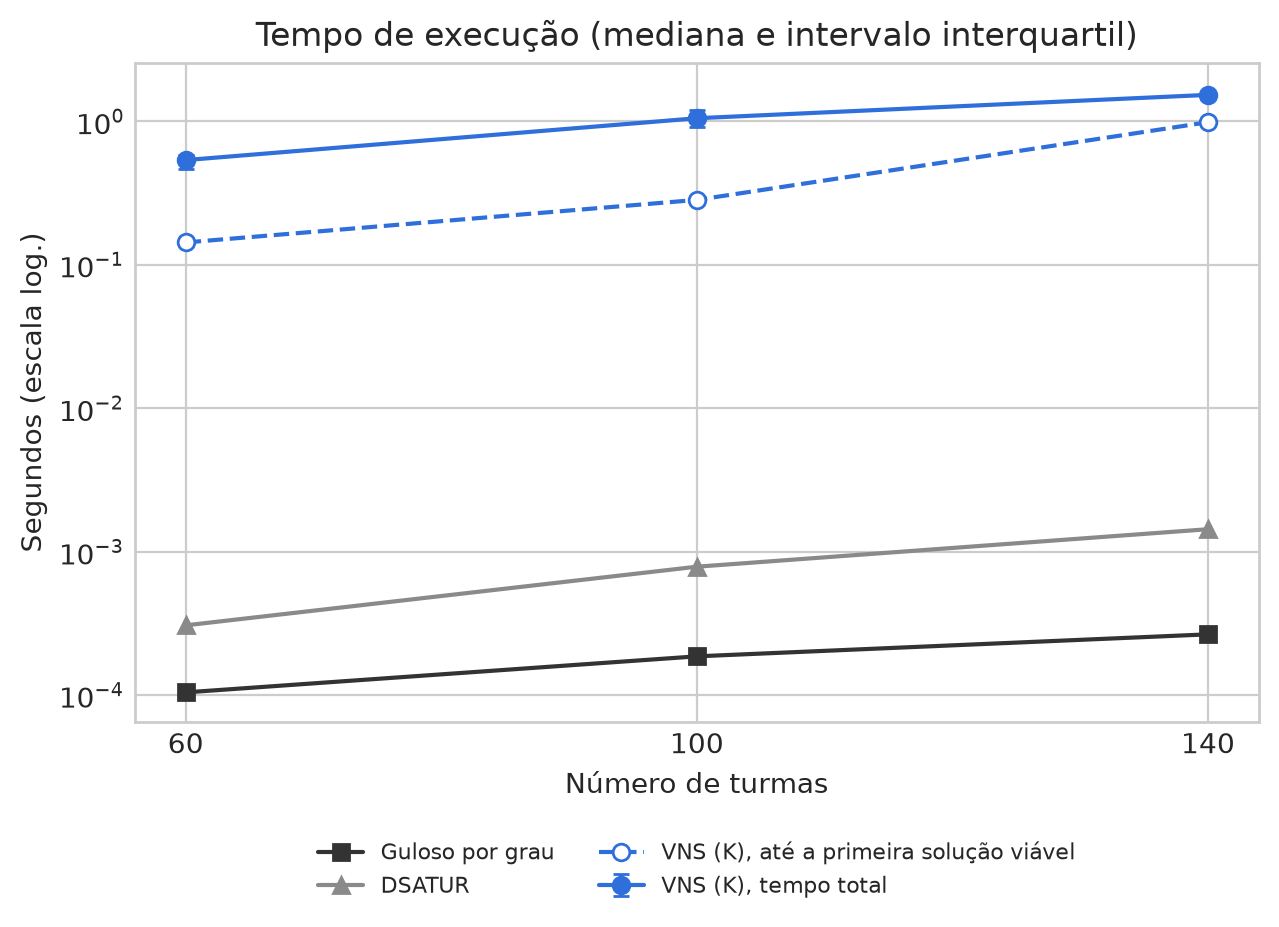
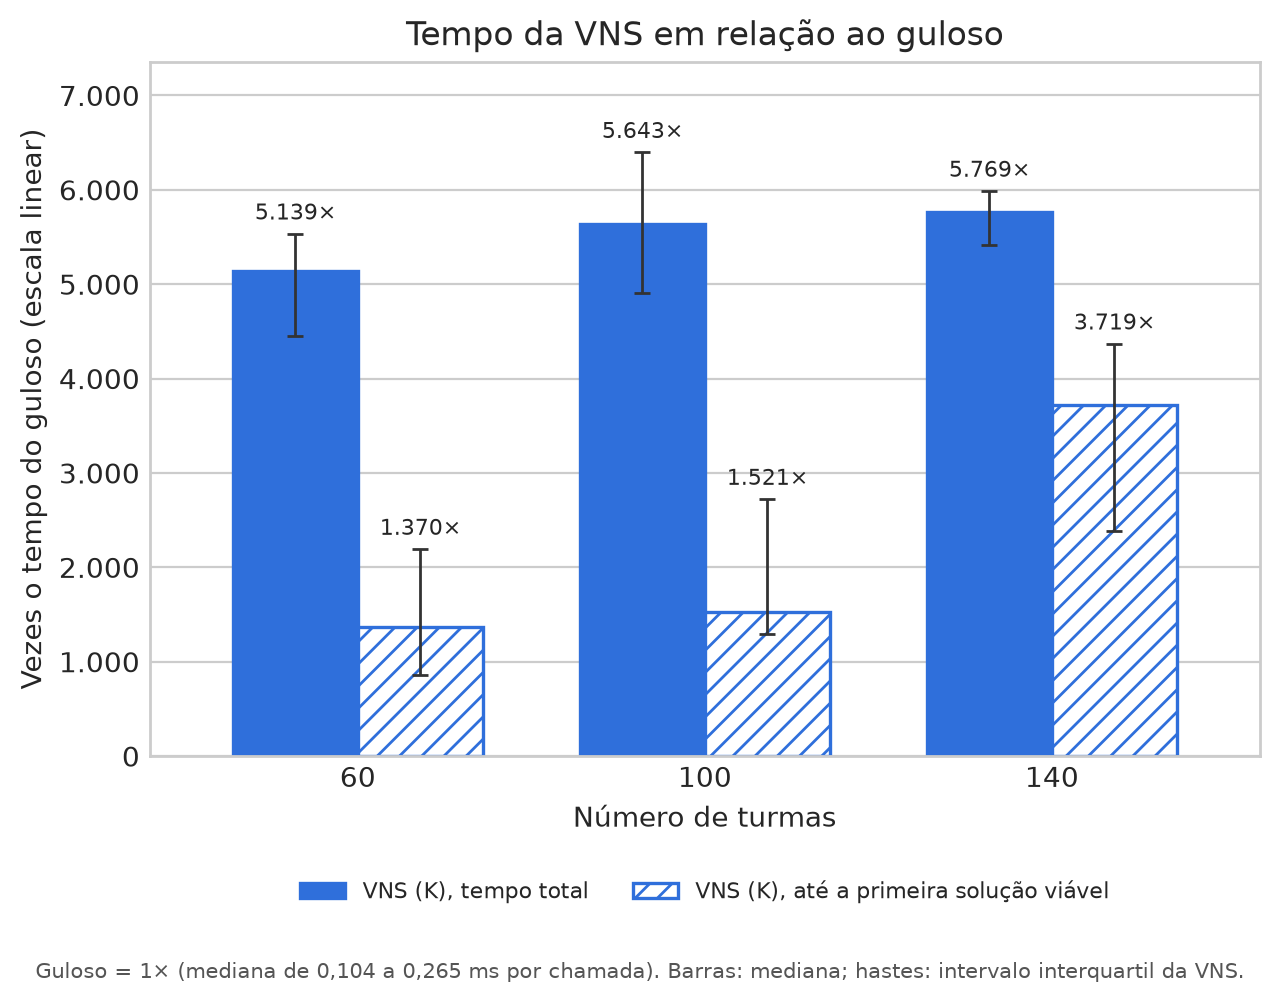
redesenhar graficos

Changed region(s): [[0.0, 0.0, 1.0, 0.9968], [0.0305, 0.9666, 0.0915, 0.9968], [0.9148, 0.1812, 0.9453, 0.2114]]

diff --git a/redesenhar_figuras_tempo.py b/redesenhar_figuras_tempo.py
@@ -1,0 +1,100 @@
+"""Redesenha as figuras de tempo a partir dos resumos já gravados, sem Jupyter e sem rodar os algoritmos.
+
+Lê `resumo_benchmark.csv` e `resumo_densa.csv` de --pasta e grava `figura_benchmark_tempos.png` e
+`figura_densa_tempos.png` em --saida (padrão: a mesma pasta). O código de desenho é o mesmo do notebook
+`comparacao_alocacao_horarios.ipynb` (`_fmt_br`, `_painel_tempos` e a primeira figura de
+`desenhar_figuras_separadas`).
+
+Uso:
+    python redesenhar_figuras_tempo.py [--pasta resultados] [--saida PASTA]
+"""
+import argparse
+import os
+
+import matplotlib
+matplotlib.use('Agg')
+import matplotlib.pyplot as plt
+import matplotlib.ticker
+import numpy as np
+import pandas as pd
+
+FIGURAS = (('resumo_benchmark.csv', 'figura_benchmark_tempos.png'),
+           ('resumo_densa.csv', 'figura_densa_tempos.png'))
+
+
+def _fmt_br(valor, casas=0):
+    """Número no padrão brasileiro: 5101.3 -> '5.101'; 0.112 (casas=3) -> '0,112'."""
+    texto = f'{valor:,.{casas}f}'
+    return texto.replace(',', '§').replace('.', ',').replace('§', '.')
+
+
+def _painel_tempos(ax, resumo, titulo):
+    """Tempo da VNS (K) como múltiplo do tempo do guloso, em escala linear.
+    Barras: mediana; hastes: intervalo interquartil (Q1 e Q3 da VNS divididos pela mediana do guloso)."""
+    base = resumo[resumo['orcamento'] == 'K'].reset_index(drop=True)
+    guloso = base['guloso_tempo_mediana_s']
+    x = np.arange(len(base))
+    largura = 0.36
+    series = [
+        ('VNS (K), tempo total', 'vns_tempo',
+         dict(color='#2f6fdb', edgecolor='#2f6fdb')),
+        ('VNS (K), até a primeira solução viável', 'vns_ate_viavel',
+         dict(color='white', edgecolor='#2f6fdb', hatch='///')),
+    ]
+    topo = np.nanmax([base[f'{p}_q3_s'] / guloso for _, p, _ in series])
+    for j, (rotulo, prefixo, estilo) in enumerate(series):
+        mediana = (base[f'{prefixo}_mediana_s'] / guloso).to_numpy()
+        q1 = (base[f'{prefixo}_q1_s'] / guloso).to_numpy()
+        q3 = (base[f'{prefixo}_q3_s'] / guloso).to_numpy()
+        xs = x + (j - 0.5) * largura
+        ok = ~np.isnan(mediana)
+        ax.bar(xs[ok], mediana[ok], largura, label=rotulo, linewidth=1.2, **estilo)
+        ax.errorbar(xs[ok], mediana[ok], yerr=np.clip([mediana[ok] - q1[ok], q3[ok] - mediana[ok]], 0, None),
+                    fmt='none', ecolor='#333333', capsize=3, linewidth=1)
+        for xi, m, sup in zip(xs, mediana, q3):
+            if np.isnan(m):
+                ax.text(xi, topo * 0.02, 'sem\nexecução\nviável', ha='center', va='bottom',
+                        fontsize=7, color='#555555')
+            else:
+                ax.text(xi, (sup if not np.isnan(sup) else m) + topo * 0.015, f'{_fmt_br(m)}×',
+                        ha='center', va='bottom', fontsize=8)
+    ax.set_xlim(-0.6, len(base) - 0.4)
+    ax.set_ylim(0, topo * 1.15)
+    ax.yaxis.set_major_formatter(matplotlib.ticker.FuncFormatter(lambda v, _: _fmt_br(v)))
+    ax.set(xticks=x, xticklabels=base['turmas'].astype(int), title=titulo,
+           xlabel='Número de turmas', ylabel='Vezes o tempo do guloso (escala linear)')
+    ax.grid(axis='x', visible=False)
+    return (f'Guloso = 1× (mediana de {_fmt_br(guloso.min() * 1e3, 3)} a '
+            f'{_fmt_br(guloso.max() * 1e3, 3)} ms por chamada). '
+            'Barras: mediana; hastes: intervalo interquartil da VNS.')
+
+
+def desenhar_figura_tempos(resumo, caminho):
+    """Mesma figura de tempos que `desenhar_figuras_separadas` grava no notebook."""
+    plt.style.use('seaborn-v0_8-whitegrid')
+    fig, ax = plt.subplots(figsize=(6.5, 4.8))
+    nota = _painel_tempos(ax, resumo, 'Tempo da VNS em relação ao guloso')
+    ax.legend(loc='upper center', bbox_to_anchor=(0.5, -0.15), ncol=2, frameon=False, fontsize=8)
+    fig.tight_layout()
+    fig.text(0.5, -0.03, nota, ha='center', fontsize=7.5, color='#555555')
+    fig.savefig(caminho, dpi=200, bbox_inches='tight')
+    plt.close(fig)
+
+
+def main():
+    parser = argparse.ArgumentParser(
+        description='Redesenha as figuras de tempo a partir de resumo_benchmark.csv e resumo_densa.csv.')
+    parser.add_argument('--pasta', default='resultados', help='pasta com os CSVs de resumo (padrão: resultados)')
+    parser.add_argument('--saida', default=None, help='pasta onde gravar as figuras (padrão: a mesma de --pasta)')
+    args = parser.parse_args()
+    saida = args.saida or args.pasta
+    os.makedirs(saida, exist_ok=True)
+    for arquivo_resumo, arquivo_figura in FIGURAS:
+        resumo = pd.read_csv(os.path.join(args.pasta, arquivo_resumo))
+        caminho = os.path.join(saida, arquivo_figura)
+        desenhar_figura_tempos(resumo, caminho)
+        print('Gravado:', caminho)
+
+
+if __name__ == '__main__':
+    main()

diff --git a/README.md b/README.md
@@ -11,6 +11,7 @@ Todo o experimento está em um único arquivo, [`comparacao_alocacao_horarios.ip
 ```
 .
 ├── comparacao_alocacao_horarios.ipynb   # geração das instâncias, algoritmos, experimentos e figuras
+├── redesenhar_figuras_tempo.py          # redesenha as figuras de tempo a partir dos resumos (.csv)
 ├── requirements.txt                     # versões exatas usadas no TCC
 └── resultados/                          # tabelas (.csv), figuras (.png) e ambiente.json
 ```
@@ -75,14 +76,25 @@ Os arquivos são gravados em `resultados/` e sobrescrevem os existentes:
 | `construtivos.csv` | Guloso e DSATUR por instância: horários, ω(G), tempo | Tabelas 2 e 3 |
 | `rodadas_vns.csv` | Cada rodada da VNS (K e K + 1) | Tabelas 3 a 5 |
 | `resumo_benchmark.csv` | Agregados por tamanho e orçamento de cores | Tabelas 3 e 5, Figuras 1 e 2 |
-| `figura_benchmark_tempos.png` | Tempos no benchmark (escala log.) | Figura 1 |
+| `figura_benchmark_tempos.png` | Tempo da VNS em relação ao guloso no benchmark (escala linear) | Figura 1 |
 | `figura_benchmark_viabilidade.png` | Taxa de viabilidade da VNS no benchmark | Figura 2 |
 | `candidatas_densa.csv` | Todas as candidatas examinadas na família densa | Seção 5 |
 | `instancias_densa.csv` | Características das instâncias densas selecionadas | Tabela da família densa |
 | `construtivos_densa.csv`, `rodadas_vns_densa.csv`, `resumo_densa.csv` | O mesmo que no benchmark, com K e K − 1 | Seção 5 |
-| `figura_densa_tempos.png` | Tempos na família densa (escala log.) | Figura 3 |
+| `figura_densa_tempos.png` | Tempo da VNS em relação ao guloso na família densa (escala linear) | Figura 3 |
 | `figura_densa_viabilidade.png` | Taxa de viabilidade da VNS na família densa | Figura 4 |
 | `ambiente.json` | Commit, versões das bibliotecas e hardware | Seção 4.4 |
+
+### Redesenhar só as figuras de tempo
+
+`redesenhar_figuras_tempo.py` lê `resumo_benchmark.csv` e `resumo_densa.csv` e grava `figura_benchmark_tempos.png` e `figura_densa_tempos.png` com o mesmo código de desenho do notebook, sem Jupyter e sem rodar os algoritmos (leva poucos segundos):
+
+```bash
+python redesenhar_figuras_tempo.py                       # lê e grava em resultados/
+python redesenhar_figuras_tempo.py --pasta X --saida Y   # lê de X e grava em Y (padrão: a mesma pasta)
+```
+
+Se mudar o desenho no notebook (`_painel_tempos`), replique a mudança no script.
 
 `guloso_tempos.csv` e `teste_folga_cores.csv` são de uma versão anterior do experimento e não são mais gerados pelo notebook.
 
